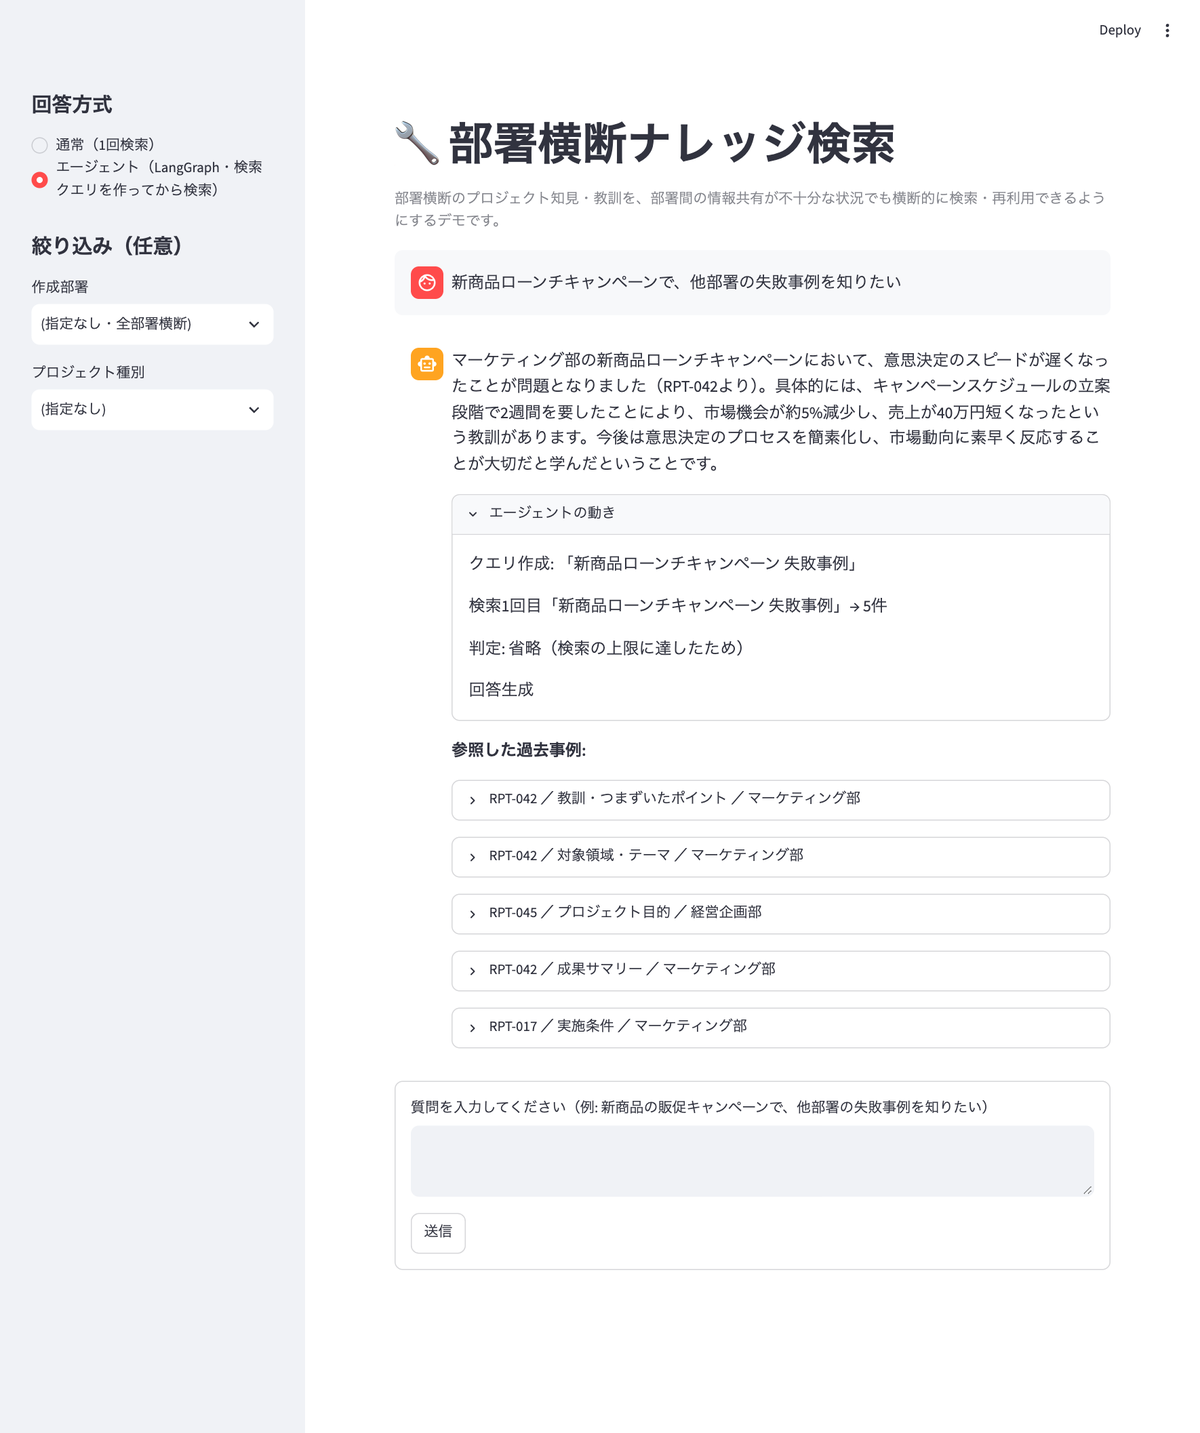
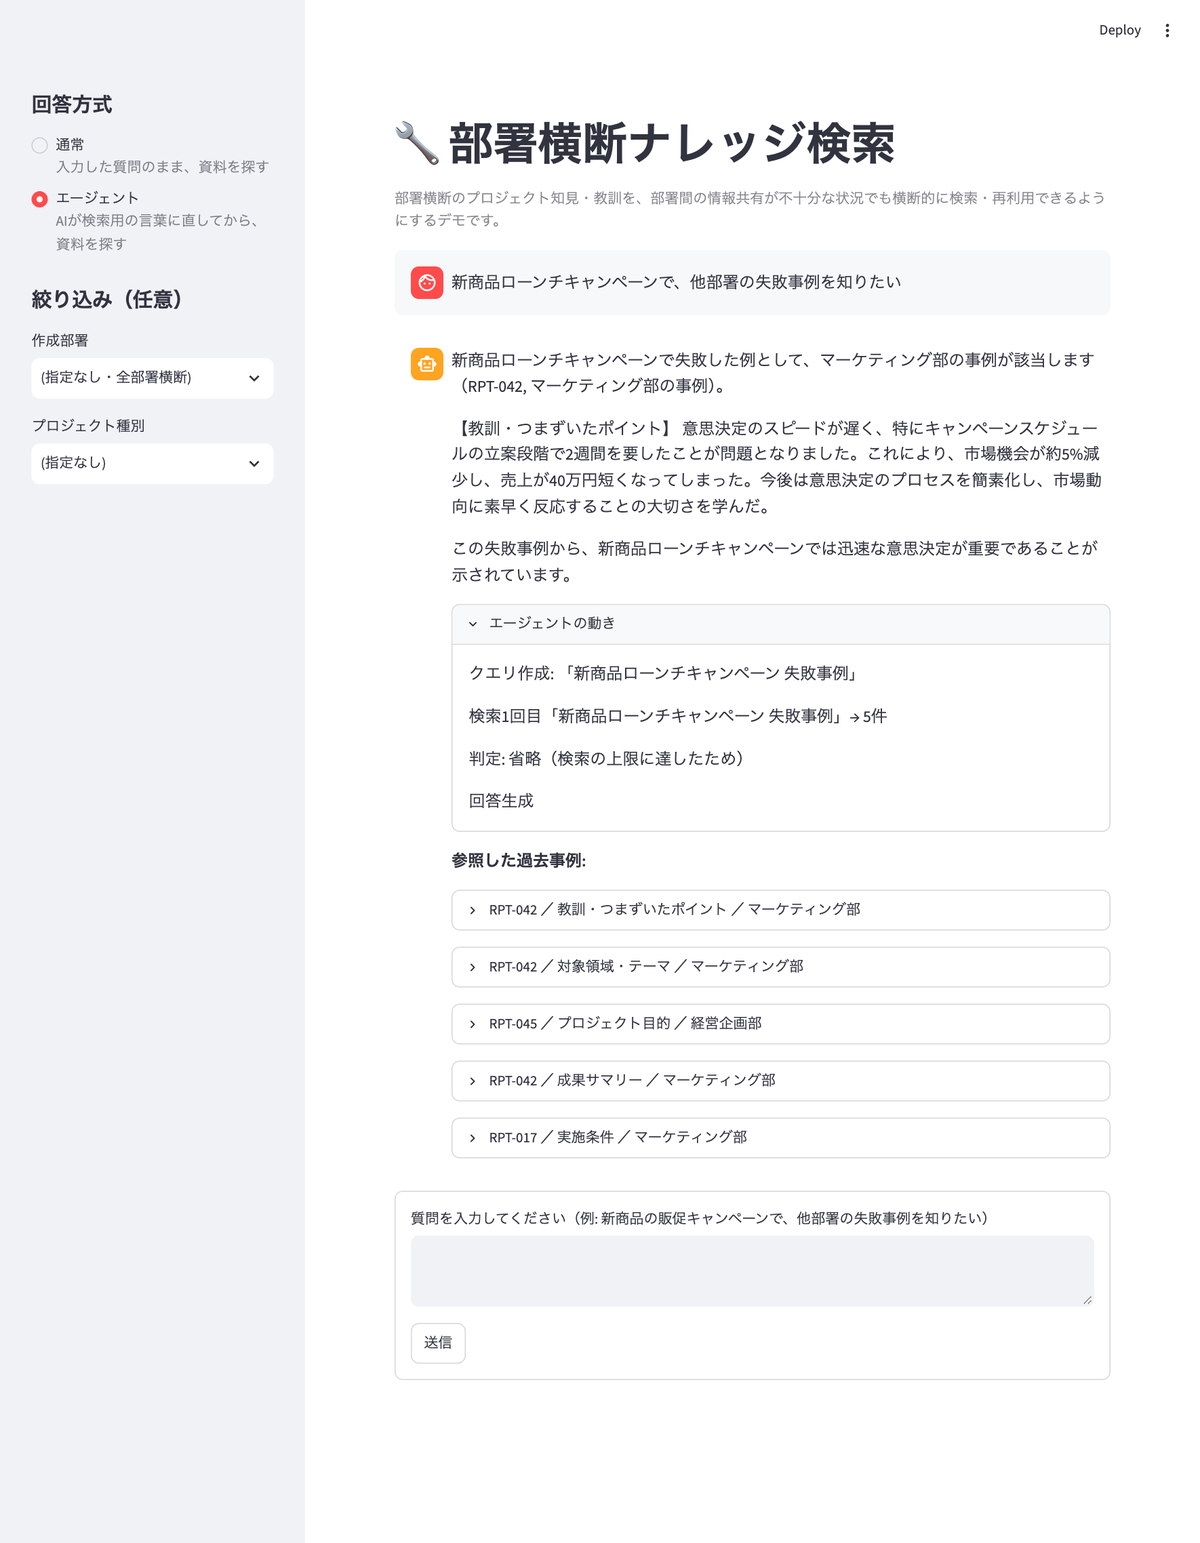
Make the answer-mode labels short, with a one-line description under each
The labels 'Plain (1 search)' and 'Agent (LangGraph, writes a search query
first)' were hard to read: the agent now also searches once by default, so
'1 search' no longer told them apart, LangGraph means nothing to a user,
and the long text wrapped mid-word in the sidebar. The options are now just
'通常' and 'エージェント', each with a caption that says the actual
difference: search the documents with the question as typed, or have the AI
rewrite it into search-friendly words first.

The docs use the same, more natural wording (the old 'search the question
almost as is' was unnatural Japanese), step 3 now says follow-up questions
have words like 'that' made concrete from the history before searching (in
both modes), and both screenshots were retaken with the new labels (7B,
synthetic data, a fresh headless Chrome profile, the app bound to
localhost).

diff --git a/src/silo_rag/app.py b/src/silo_rag/app.py
@@ -43,8 +43,9 @@ def _filter_widgets() -> dict[str, str]:
     return filters
 
 
-_MODE_BASELINE = "通常（1回検索）"
-_MODE_AGENT = "エージェント（LangGraph・検索クエリを作ってから検索）"
+_MODE_BASELINE = "通常"
+_MODE_AGENT = "エージェント"
+_MODE_CAPTIONS = ["入力した質問のまま、資料を探す", "AIが検索用の言葉に直してから、資料を探す"]
 
 
 def _mode_widget() -> str:
@@ -53,7 +54,9 @@ def _mode_widget() -> str:
     if importlib.util.find_spec("langgraph") is None:
         st.sidebar.caption('エージェントを使うには `pip install -e ".[agent]"` が必要です。')
         return _MODE_BASELINE
-    return st.sidebar.radio("方式", [_MODE_BASELINE, _MODE_AGENT], label_visibility="collapsed")
+    return st.sidebar.radio(
+        "方式", [_MODE_BASELINE, _MODE_AGENT], captions=_MODE_CAPTIONS, label_visibility="collapsed"
+    )
 
 
 def _render_trace(trace: list[str] | None) -> None:

diff --git a/README_ja.md b/README_ja.md
@@ -26,8 +26,8 @@
 
 <table>
 <tr>
-<td width="50%"><img src="docs/screenshots/gui_plain.png" alt="通常方式の画面。サイドバーで「通常」を選び、質問すると、回答と参照した過去事例が出る"><br><b>通常方式</b>: 質問をほぼそのまま検索して、回答と、参照した過去事例（出典）を出す</td>
-<td width="50%"><img src="docs/screenshots/gui_agent.png" alt="エージェント方式の画面。回答の下に「エージェントの動き」（クエリ作成・検索・判定・回答生成）が出る"><br><b>エージェント方式</b>（オプション）: 検索クエリを作ってから検索する。回答の下に、「エージェントの動き」の記録が出る</td>
+<td width="50%"><img src="docs/screenshots/gui_plain.png" alt="通常方式の画面。サイドバーで「通常」を選び、質問すると、回答と参照した過去事例が出る"><br><b>通常方式</b>: 入力した質問のまま資料を探して、回答と、参照した過去事例（出典）を出す</td>
+<td width="50%"><img src="docs/screenshots/gui_agent.png" alt="エージェント方式の画面。回答の下に「エージェントの動き」（クエリ作成・検索・判定・回答生成）が出る"><br><b>エージェント方式</b>（オプション）: AIが検索用の言葉に直してから、資料を探す。回答の下に、「エージェントの動き」の記録が出る</td>
 </tr>
 </table>
 
@@ -130,13 +130,13 @@ streamlit run src/silo_rag/app.py --server.address localhost
 - **質問する**: 下のテキスト欄に質問を入力し、「送信」ボタンを押す。Enterキーは改行になり、送信はしない（日本語の変換の確定で、誤って送信しないため）。処理中は「検索・回答生成中...」と出る
 - **回答を見る**: 回答の下に「参照した過去事例」が、「レポートID ／ セクション ／ 部署」の形で並ぶ。開くと、根拠にした本文が出る。似た事例が他部署にあれば、他部署の事例だと明記して紹介する
 - **答えが無いとき**: 資料が質問と関係ないときや、雑談・挨拶など検索の質問になっていないときは、「該当する事例が見つかりませんでした」と答える。件数や集計を問う質問（「全部でいくつ？」「最も多いのは？」など）には、「分かりません」と答える（検索で見つけた一部の資料しか見ていないため）
-- **続けて質問する**: 前の質問を受けた質問（例:「それについてもう少し詳しく」）もできる。会話履歴は、検索の質問の解釈にだけ使う（「さっき何て言った？」には答えない）。ブラウザを再読み込みすると、会話履歴は消える
-- **回答方式（サイドバー）**: 「通常（1回検索）」と「エージェント（LangGraph・検索クエリを作ってから検索）」を、質問ごとに切り替える。「エージェント」は、手順4で追加のライブラリを入れたときだけ出る。エージェントで答えると、回答の下に「エージェントの動き」（クエリ作成・検索・判定の記録）も出る
+- **続けて質問する**: 前の質問を受けた質問（例:「それについてもう少し詳しく」）もできる。このときは、会話履歴を見て、「それ」などの言葉を具体的な言葉に直してから、資料を探す（通常方式・エージェント方式のどちらでも）。会話履歴は、検索の質問の解釈にだけ使う（「さっき何て言った？」には答えない）。ブラウザを再読み込みすると、会話履歴は消える
+- **回答方式（サイドバー）**: 「通常」（入力した質問のまま、資料を探す）と「エージェント」（AIが検索用の言葉に直してから、資料を探す）を、質問ごとに切り替える。それぞれの説明は、画面の選択肢の下にも出る。「エージェント」は、手順4で追加のライブラリを入れたときだけ出る。エージェントで答えると、回答の下に「エージェントの動き」（クエリ作成・検索・判定の記録）も出る
 - **絞り込み（任意。サイドバー）**: 「作成部署」と「プロジェクト種別」で、検索の対象を絞る。指定しなければ、全部署を横断して探す（自前のレポートでは、分類が合わないことがある。手順1のBの注意）
 
 ### 手順4（オプション）: エージェント方式を入れる
 
-通常方式は、質問をほぼそのまま検索して答える。エージェント方式は、AIが質問から検索用の言葉（検索クエリ）を作ってから検索する。使うには、追加のライブラリを入れる（入れなくても、通常方式は動く）。
+通常方式は、入力した質問のまま資料を探して答える。エージェント方式は、AIが質問を検索用の言葉（検索クエリ）に直してから、資料を探す。使うには、追加のライブラリを入れる（入れなくても、通常方式は動く）。
 
 ```bash
 pip install -e ".[agent]"
@@ -242,7 +242,7 @@ graph TB
 
 ## エージェント方式（ノードG・H）
 
-- **何をするか**: 通常方式は、質問をほぼそのまま1回検索する。エージェント方式（ノードG）は、LangGraph（AIの処理の流れを組み立てるライブラリ）で、「検索クエリを作る → 検索 → 根拠が足りるか判定 → 足りなければ、別の言葉で再検索」を回す。ノードHは、LangChain（AIアプリを作るためのライブラリ）に用意されている既製のエージェントに同じ仕事をさせ、Gと比べるためのもの
+- **何をするか**: 通常方式は、入力した質問のまま、資料を1回探す。エージェント方式（ノードG）は、LangGraph（AIの処理の流れを組み立てるライブラリ）で、「検索クエリを作る → 検索 → 根拠が足りるか判定 → 足りなければ、別の言葉で再検索」を回す。ノードHは、LangChain（AIアプリを作るためのライブラリ）に用意されている既製のエージェントに同じ仕事をさせ、Gと比べるためのもの
 - **結果**: 正解の資料を見つけられた質問の割合（hit_rate）で比べた。小さめのモデル（7B＝パラメータ数70億）と15問では、エージェント方式が大きく良く見えた（通常方式0.60 → エージェント方式0.93）。しかし、この15問は、設計を決めるときに見ていた質問だった。45問で測り直すと、7Bで0.71 → 0.76で、差は偶然の範囲だった。大きめのモデル（32B＝320億）でも、エージェント方式と同じ動き（検索クエリを作ってから1回検索）を通常方式で測り、0.76 → 0.80で、同じく偶然の範囲だった
 - **結論**: 回答方式の既定は、通常方式のまま。エージェント方式は、オプションとして残した
 - **詳しくは**: 作りと設計判断は[エージェント方式の設計](docs/agent_ja.md)、表と測り方は[エージェント方式の評価](docs/agent_evaluation_ja.md)

diff --git a/README_en.md b/README_en.md
@@ -26,7 +26,7 @@ The "answer mode" in the sidebar switches between the plain mode and the agent m
 
 <table>
 <tr>
-<td width="50%"><img src="docs/screenshots/gui_plain.png" alt="The plain mode: with the sidebar set to the plain mode, a question returns an answer and the past cases it drew on"><br><b>Plain mode</b>: searches the question almost as is, and shows the answer and the past cases it drew on (citations)</td>
+<td width="50%"><img src="docs/screenshots/gui_plain.png" alt="The plain mode: with the sidebar set to the plain mode, a question returns an answer and the past cases it drew on"><br><b>Plain mode</b>: searches the documents with the question as typed, and shows the answer and the past cases it drew on (citations)</td>
 <td width="50%"><img src="docs/screenshots/gui_agent.png" alt="The agent mode: under the answer, a 'what the agent did' record (query writing, search, grading, answer generation)"><br><b>Agent mode</b> (optional): writes a search query, then searches. A record of what the agent did appears under the answer</td>
 </tr>
 </table>
@@ -130,13 +130,13 @@ The sidebar (settings) is on the left; the questions and answers are on the righ
 - **Ask**: type a question in the text box at the bottom and press the "送信" (Send) button. The Enter key adds a new line and does not send (so that confirming Japanese input conversion does not send by mistake). While it works, "検索・回答生成中..." (searching and generating) is shown
 - **Read the answer**: under the answer, "参照した過去事例" (cited past cases) lists the sources as "report ID / section / department". Open one to see the text the answer was based on. If a similar case exists in another department, the answer includes it and says it is from another department
 - **When there is no answer**: if the material has nothing to do with the question, or the input is not a search question (small talk, greetings and so on), it answers "該当する事例が見つかりませんでした" (no matching case found). Questions about counts or totals ("how many in all?", "which is the most common?") get "分かりません" (I don't know), because it only sees the part of the material that the search found
-- **Ask follow-up questions**: questions that build on the previous one (e.g., "tell me more about that") work. The conversation history is used only to interpret search questions (it does not answer "what did I just say?"). Reloading the browser clears the history
-- **Answer mode (sidebar)**: switch between "通常（1回検索）" (plain, one search) and "エージェント（LangGraph・検索クエリを作ってから検索）" (agent: writes a search query, then searches), question by question. "エージェント" appears only after you install the extra libraries in step 4. When the agent answers, "エージェントの動き" (what the agent did: query writing, searching, grading) also appears under the answer
+- **Ask follow-up questions**: questions that build on the previous one (e.g., "tell me more about that") work. In that case, words such as "that" are first turned into concrete words using the conversation history, then the documents are searched (in both modes). The conversation history is used only to interpret search questions (it does not answer "what did I just say?"). Reloading the browser clears the history
+- **Answer mode (sidebar)**: switch between "通常" (plain: searches the documents with the question as typed) and "エージェント" (agent: the AI rewrites the question into search-friendly words first, then searches), question by question. Each option also shows this description under it on the screen. "エージェント" appears only after you install the extra libraries in step 4. When the agent answers, "エージェントの動き" (what the agent did: query writing, searching, grading) also appears under the answer
 - **Filters (optional, sidebar)**: narrow the search by "作成部署" (department) and "プロジェクト種別" (project type). Without them, it searches across all departments (with your own reports the categories may not match; see the caution in step 1 B)
 
 ### Step 4 (optional): Install the agent mode
 
-Plain mode searches with the question almost as is, then answers. The agent mode has the AI write search-friendly words (a search query) from the question first, then search. It needs extra libraries (plain mode works without them).
+Plain mode searches the documents with the question as typed, then answers. The agent mode has the AI write search-friendly words (a search query) from the question first, then search. It needs extra libraries (plain mode works without them).
 
 ```bash
 pip install -e ".[agent]"
@@ -242,7 +242,7 @@ The AI models each node uses, and how the search works (BM25 keyword search and 
 
 ## The agent mode (nodes G and H)
 
-- **What it does**: plain mode searches once with the question almost as is. The agent mode (node G) uses LangGraph (a library for building the flow of an AI's steps) to run "write a search query → search → grade whether the evidence is enough → if not, search again with other words". Node H has the ready-made agent that comes with LangChain (a library for building AI applications) do the same job, so it can be compared with G
+- **What it does**: plain mode searches the documents once with the question as typed. The agent mode (node G) uses LangGraph (a library for building the flow of an AI's steps) to run "write a search query → search → grade whether the evidence is enough → if not, search again with other words". Node H has the ready-made agent that comes with LangChain (a library for building AI applications) do the same job, so it can be compared with G
 - **Results**: compared by the share of questions whose correct document was found (hit_rate). On a smaller model (7B, i.e. 7 billion parameters) with 15 questions, the agent mode looked much better (plain 0.60 → agent 0.93). But those 15 questions are the ones I was looking at when designing it. Re-measured on 45 questions, 7B went 0.71 → 0.76, a difference within chance. On a larger model (32B, 32 billion), the agent mode's behavior (write a search query, then search once) was measured in plain mode: 0.76 → 0.80, also within chance
 - **Conclusion**: plain mode stays the default answer mode; the agent mode is kept as an option
 - **More**: how it is built and why, in [the agent mode's design](docs/agent_en.md); the tables and how it was measured, in [the agent mode's evaluation](docs/agent_evaluation_en.md)

diff --git a/docs/agent_ja.md b/docs/agent_ja.md
@@ -14,7 +14,7 @@
 
 ## 通常方式と、エージェント方式の違い
 
-- **通常方式**（既定）: 質問を、ほぼそのまま1回検索して、見つけた資料を根拠に答える
+- **通常方式**（既定）: 入力した質問のまま、資料を1回探して、見つけた資料を根拠に答える
 - **エージェント方式**（オプション）: LLMが、質問から検索用の言葉（検索クエリ）を作ってから検索する。設定を変えると、根拠が足りないときに、別の言葉で検索し直すこともできる（初期設定では、検索し直さない）
 
 使い方（入れ方と、画面での切り替え方）は、READMEの[使い方](../README_ja.md#使い方)の手順3・手順4にある。

diff --git a/docs/agent_en.md b/docs/agent_en.md
@@ -14,7 +14,7 @@ What this document covers:
 
 ## Plain mode and agent mode
 
-- **Plain mode** (default): searches with the question almost as is, once, and answers from what it finds
+- **Plain mode** (default): searches the documents once with the question as typed, and answers from what it finds
 - **Agent mode** (optional): an LLM first writes search-friendly words (a search query) from the question, then searches. A setting makes it search again with other words when the evidence falls short (by default it does not)
 
 How to install it and switch modes on the screen is in steps 3 and 4 of [Usage](../README_en.md#usage) in the README.
